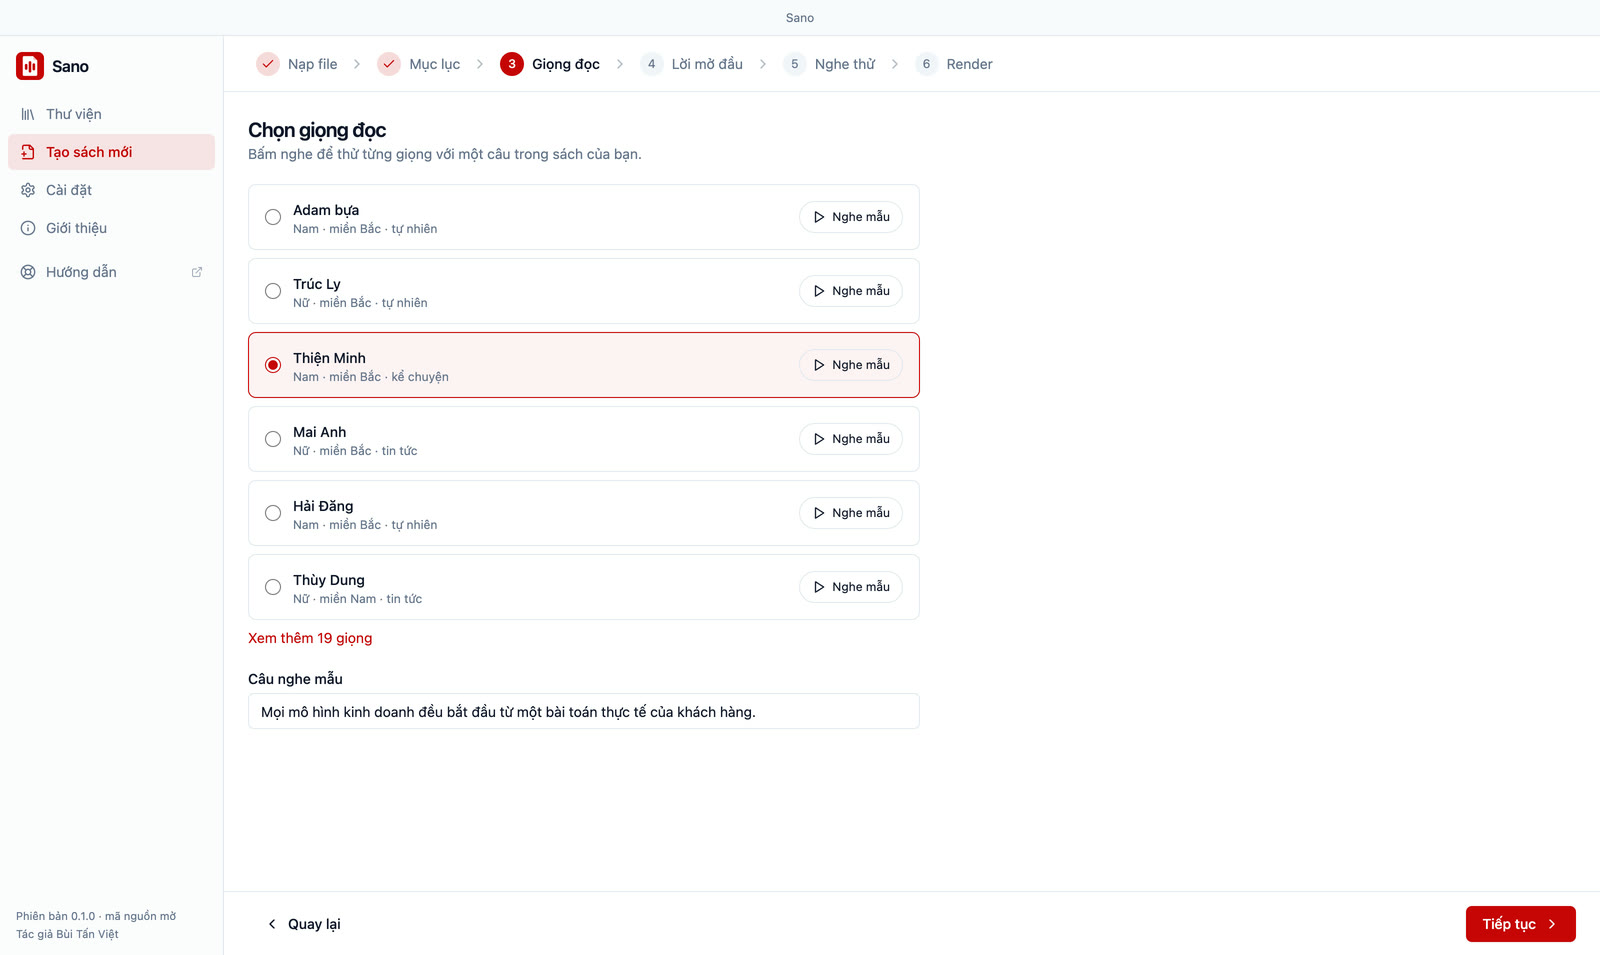
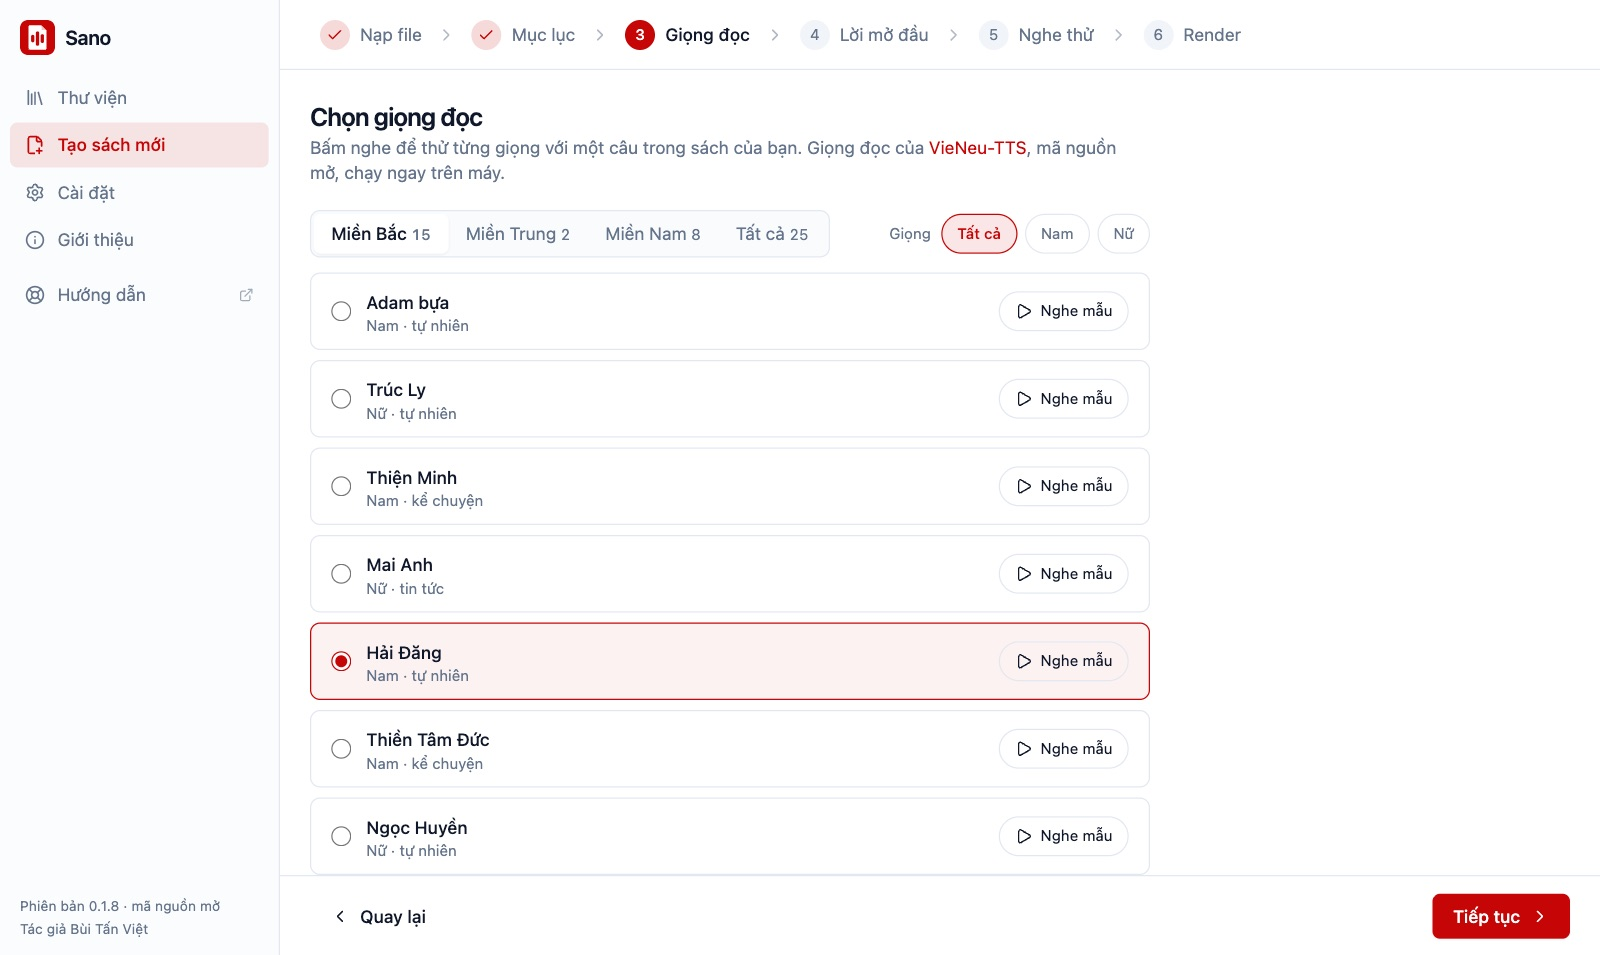
docs: nhập sách, chữ chạy theo, thanh nghe nhỏ, chọn giọng theo miền; ảnh chụp app mới
Trang chủ thêm 3 điểm nổi bật (chữ chạy theo, nghe liền mạch, chia sẻ sách).
Chụp lại Thư viện, bước Giọng đọc, màn nghe; thêm ảnh Xem lời, Nhập sách.

diff --git a/docs/.vitepress/theme/components/Highlights.vue b/docs/.vitepress/theme/components/Highlights.vue
@@ -1,13 +1,16 @@
 <script setup lang="ts">
 // Điểm nổi bật (wireframe WfLanding mục 5). Tự làm thay cho frontmatter `features` của VitePress
 // để giữ đúng thứ tự mục như wireframe (features của VitePress luôn nằm ngay dưới hero).
-import { Github, ListTree, Mic, UserRoundX, Wand2, WifiOff } from 'lucide-vue-next'
+import { Github, Headphones, ListTree, Mic, Share2, Text, UserRoundX, Wand2, WifiOff } from 'lucide-vue-next'
 
 const items = [
   { icon: WifiOff, title: 'Chạy offline trên máy', desc: 'Tài liệu không gửi lên mạng. Cài bộ đọc xong là dùng được không cần internet.' },
-  { icon: Mic, title: '25 giọng Việt', desc: 'Nam, nữ, giọng Bắc, Trung, Nam của bộ đọc mã nguồn mở VieNeu-TTS. Nghe thử từng giọng trước khi chọn.' },
+  { icon: Mic, title: '25 giọng Việt', desc: 'Nam, nữ, giọng Bắc, Trung, Nam của bộ đọc mã nguồn mở VieNeu-TTS. Chọn theo miền, nghe thử từng giọng trước khi chọn.' },
   { icon: Wand2, title: 'Tự chuẩn hoá văn nói', desc: 'Số, viết tắt, mũi tên, ký hiệu được đọc thành lời tự nhiên.' },
   { icon: ListTree, title: 'Mục lục chương', desc: 'Lấy từ Heading trong Word. Nhảy chương trong app và trong file M4B.' },
+  { icon: Text, title: 'Chữ chạy theo lời đọc', desc: 'Vừa nghe vừa xem chữ: câu đang đọc in đậm, tự cuộn theo, bấm một câu để nghe lại từ đó.' },
+  { icon: Headphones, title: 'Nghe liền mạch', desc: 'Nhớ chỗ nghe dở của từng cuốn. Rời màn nghe để tạo sách mới, sách vẫn phát ở thanh nghe nhỏ.' },
+  { icon: Share2, title: 'Chia sẻ sách cho nhau', desc: 'Gửi gói zip để người dùng Sano khác nhập vào thư viện, hoặc gửi file M4B để nghe bằng app bất kỳ.' },
   { icon: UserRoundX, title: 'Không cần API key, không tốn token', desc: 'Không điền key ChatGPT hay dịch vụ AI nào, không trả tiền theo lượt dùng. Mô hình AI chạy trên máy bạn, không đăng ký, không đăng nhập.' },
   { icon: Github, title: 'Mã nguồn mở MIT', desc: 'Miễn phí, xem và sửa được toàn bộ mã nguồn trên GitHub.' },
 ]

diff --git a/docs/thu-vien.md b/docs/thu-vien.md
@@ -1,6 +1,6 @@
 ---
 title: Thư viện & danh mục
-description: 'Thư viện trong Sano, phần mềm làm sách nói bằng AI: tìm và sắp xếp, gắn danh mục, sửa thông tin sách, trình phát nhớ chỗ nghe dở và nơi lưu sách trên máy.'
+description: 'Thư viện trong Sano, phần mềm làm sách nói bằng AI: tìm và sắp xếp, gắn danh mục, nhập sách từ gói zip, trình phát có chữ chạy theo, nhớ chỗ nghe dở và nơi lưu sách trên máy.'
 ---
 
 # Thư viện & danh mục
@@ -14,11 +14,11 @@ Lần đầu mở Sano, thư viện có sẵn một cuốn mẫu: **Kỹ năng m
 ## Nghe tiếp và tất cả sách
 
 - Hàng **Nghe tiếp** hiện tối đa 3 cuốn đang nghe dở, bấm là phát tiếp.
-- Mục **Tất cả sách** hiện bìa từng cuốn kèm tên, tác giả, thời lượng và tiến độ: "Chưa nghe", "Đã nghe X%" hoặc "Đã nghe xong".
+- Mục **Tất cả sách** hiện bìa từng cuốn kèm tên, tác giả, thời lượng, **giọng đọc** và tiến độ: "Chưa nghe", "Đã nghe X%" hoặc "Đã nghe xong".
 
 ## Tìm và sắp xếp
 
-- Ô **Tìm theo tên sách hoặc tác giả…** tìm được cả khi gõ không dấu.
+- Ô **Tìm theo tên sách, tác giả hoặc giọng đọc…** tìm được cả khi gõ không dấu.
 - **Sắp xếp:** Mới tạo nhất, Nghe gần đây, Tên A–Z, Tác giả A–Z, Dài nhất. Sano nhớ lựa chọn của bạn.
 
 ## Danh mục
@@ -28,6 +28,17 @@ Danh mục là nhãn bạn tự đặt cho mỗi cuốn (tối đa 40 ký tự),
 - **Gắn danh mục:** chọn ở bước Nạp file khi tạo sách, hoặc trong **Sửa thông tin** của cuốn đã có. Chưa có danh mục phù hợp thì bấm **Tạo danh mục mới**, gõ tên rồi bấm **Thêm**.
 - **Lọc:** khi thư viện có từ 2 danh mục, phía trên lưới bìa hiện các nút lọc: Tất cả, Đang nghe, từng danh mục, Chưa phân loại.
 - Danh mục tự biến mất khi không còn cuốn nào dùng. Muốn đổi danh mục của một cuốn thì sửa thông tin cuốn đó.
+
+## Nhập sách từ gói zip
+
+Người khác gửi cho bạn gói sách (`book-<tên-sách>.zip`, tạo bằng nút **Xuất gói zip**), hoặc bạn muốn lấy lại bản sao lưu: bấm **Nhập sách** ở đầu Thư viện rồi chọn file, hoặc kéo thả file `.zip` vào cửa sổ.
+
+<img class="app-shot" src="./images/app/nhap-sach.jpg" alt="Hộp Nhập sách: bìa, tên sách, giọng đọc, số chương, thời lượng, dung lượng và nút Nhập vào thư viện" width="1600" height="955">
+
+- Sano cho **xem trước** bìa, tên, giọng đọc, số chương, thời lượng, rồi mới nhập. Sách nhập giữ đủ mục lục, bìa, tên giọng và chữ chạy theo.
+- **Trùng sách đã có:** chọn **Giữ cả hai** (cuốn mới tên "… (2)") hoặc **Thay thế** (cuốn cũ vào Thùng rác, lấy lại được).
+- Gói lạ, bị sửa hay hỏng bị từ chối, Sano nói rõ lý do và không thêm gì vào thư viện. Chi tiết ở [Xuất M4B & gói zip](./xuat-m4b-goi-zip#nhap-goi-zip-tu-0-1-8).
+- Chỉ nhập sách bạn có quyền nghe.
 
 ## Sửa thông tin, mở thư mục, xoá
 
@@ -41,11 +52,25 @@ Bấm nút **⋯** trên bìa sách:
 
 Bấm vào một cuốn để nghe ngay trong Sano:
 
+<img class="app-shot" src="./images/app/nghe.jpg" alt="Màn nghe: bìa, tên sách, giọng đọc, ô Lời đọc, nút phát, mục lục bên phải" width="1600" height="955">
+
 - Phát, dừng, lùi 15 giây, tới 30 giây, mục trước, mục sau; bấm vào thanh tiến độ để nhảy tới chỗ bất kỳ.
 - Tốc độ 0,75× đến 2×, Sano nhớ tốc độ bạn chọn.
 - Tự nhớ chỗ nghe dở của từng cuốn, hết mục tự sang mục kế.
-- Cột **Mục lục** liệt kê từng mục, bấm để nhảy tới.
+- Cột **Mục lục** liệt kê từng mục và tự cuộn tới mục đang phát, bấm để nhảy tới.
+- **Rời màn nghe vẫn nghe tiếp:** sang Thư viện, Tạo sách hay Cài đặt, sách phát tiếp ở **thanh nghe nhỏ** dưới đáy cửa sổ (phát/dừng, tua, ✕ để dừng hẳn). Bấm tên sách trên thanh để mở lại màn nghe. Khi bấm **Nghe mẫu** giọng lúc tạo sách, sách tự tạm dừng.
 - Hàng nút: **Xuất M4B**, **Xuất gói zip**, **Mở thư mục**, **Xoá**.
+
+### Chữ chạy theo lời đọc
+
+Ô **Lời đọc** dưới tên mục hiện câu đang đọc và câu kế. Bấm vào để mở **Xem lời**: chữ lớn như trong file Word, câu đang đọc in đậm, tự cuộn theo.
+
+<img class="app-shot" src="./images/app/xem-loi.jpg" alt="Màn Xem lời: câu đang đọc in đậm, câu đã đọc mờ, thanh điều khiển ở đáy" width="1600" height="955">
+
+- Bấm một câu để nghe từ câu đó. Tự cuộn đi chỗ khác thì Sano ngừng bám theo, bấm **Về câu đang đọc** để quay lại.
+- **Chữ lớn** phóng to chữ, **Thu nhỏ** về màn nghe.
+- Vị trí chữ là **ước lượng** theo độ dài câu rồi khớp vào khoảng ngừng thật trong giọng đọc, thường lệch dưới nửa giây. Dùng được cho cả sách đã tạo trước đây.
+- Tiện để soát: nghe thấy chỗ đọc sai là biết ngay câu nào, sửa lời đọc rồi tạo lại sách.
 
 ## Sách lưu ở đâu
 

diff --git a/docs/tao-sach-dau-tien.md b/docs/tao-sach-dau-tien.md
@@ -52,9 +52,9 @@ Số đầu tiêu đề (như "1.2.") mặc định không đọc. Muốn đọc
 
 ## 3. Giọng đọc
 
-Chọn một trong khoảng 25 giọng Việt, nam và nữ, giọng Bắc và giọng Nam. Mỗi giọng có nút **Nghe mẫu**; câu nghe mẫu sửa được. Giọng mặc định là **Hải Đăng** (nam, miền Bắc, giọng tự nhiên).
+Chọn một trong 25 giọng Việt. Giọng gom theo miền: **Miền Bắc** (15), **Miền Trung** (2), **Miền Nam** (8) hoặc **Tất cả**, lọc thêm giọng **Nam** / **Nữ**. Sano mở sẵn đúng miền bạn chọn lần trước, giọng của cuốn tạo gần nhất có nhãn **Dùng lần trước**. Mỗi giọng có nút **Nghe mẫu**; câu nghe mẫu sửa được. Giọng mặc định là **Hải Đăng** (nam, miền Bắc, giọng tự nhiên).
 
-<img class="app-shot" src="./images/app/b3-giong-doc.jpg" alt="Bước Giọng đọc: danh sách giọng, nút Nghe mẫu, câu nghe mẫu sửa được" width="1600" height="955">
+<img class="app-shot" src="./images/app/b3-giong-doc.jpg" alt="Bước Giọng đọc: chọn miền Bắc, Trung, Nam, lọc giọng nam nữ, nút Nghe mẫu" width="1600" height="955">
 
 ## 4. Lời mở đầu
 
